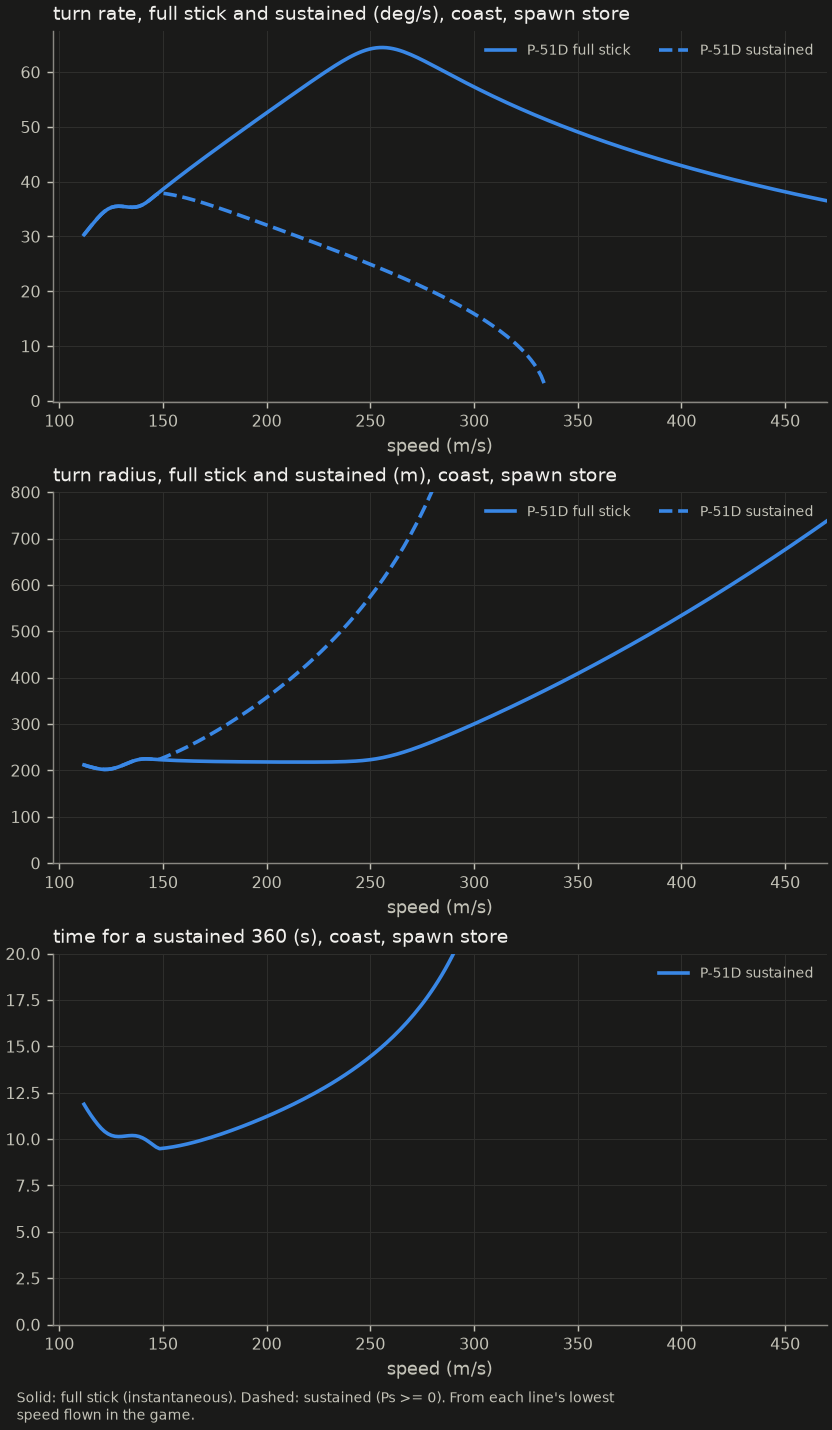
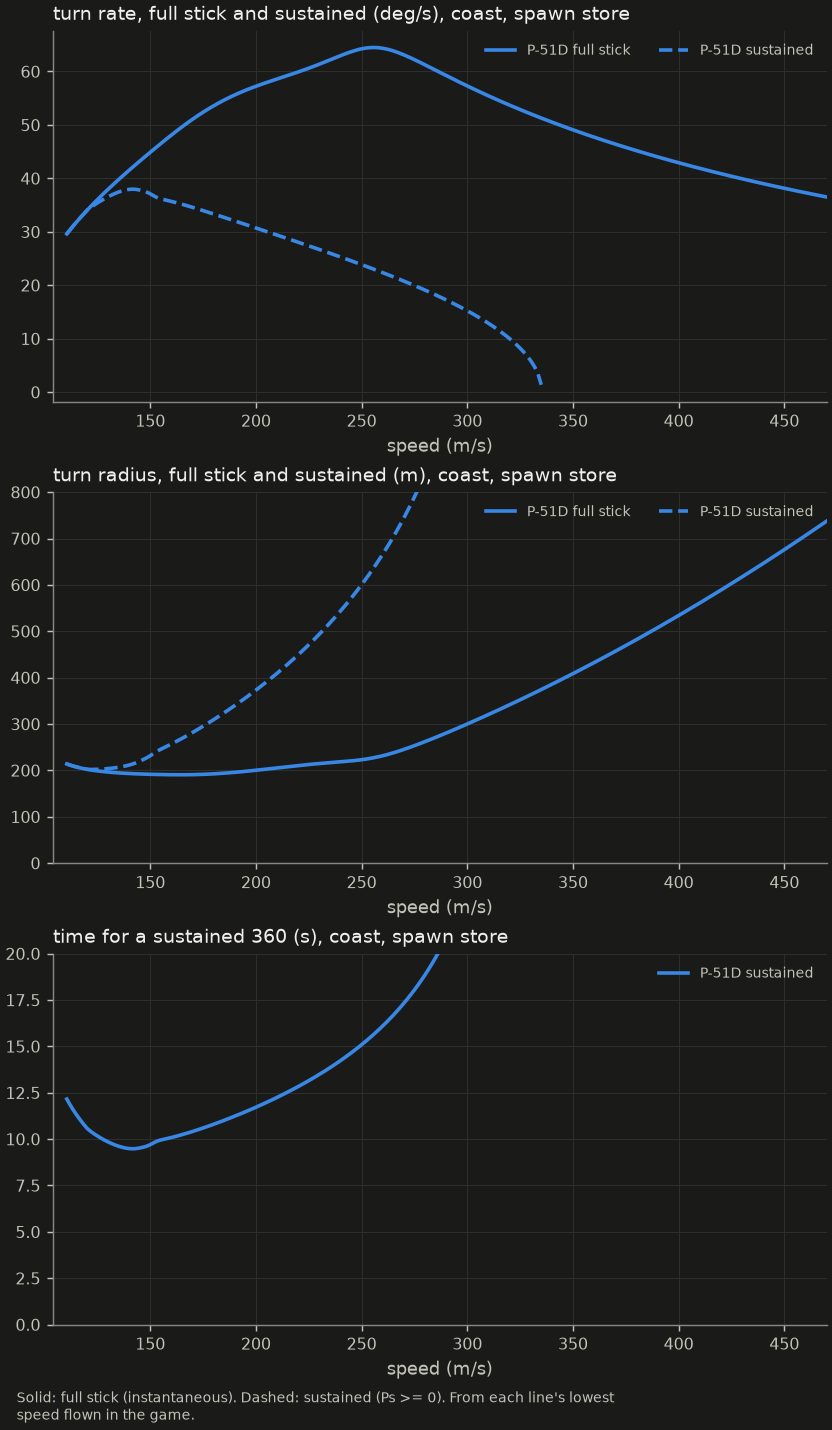
Charts on the demand-scheduled flaps: re-measured limits and flown points, test without stored numbers, flap sliders
- test_the_p51d_lines_start_where_the_game_flies_them asserts against the measurement it
  makes: each line between stall and corner speed, and flown.random_search (new: random
  control sequences, the cross-check) flies no line more than 3 m/s below it.
- design.INFO: flap_blowback_ratio replaces the removed flap_full/clear_speed_ratio.
- P-51D, game m/s: full 109.9, sustained 105.8, fine 104.0, dive 132.0, climb 109.8;
  flown points within 1.3% of the quasi-steady ones. NOTES and p51d-model updated;
  the six doghouse PNGs re-rendered (shelf gone).

diff --git a/lean/tool/flown.py b/lean/tool/flown.py
@@ -135,6 +135,66 @@ def achievable_speeds(tolerance: float = TOLERANCE) -> dict[str, float]:
     return {name: float(v) for name, v in zip(names, lowest)}
 
 
+def random_search(
+    ships: int = 1024, seconds: float = 40.0, seed: int = 0, tolerance: float = TOLERANCE
+) -> dict[str, float]:
+    """The cross-check of achievable_speeds: from the spawn state, random sequences of the 12
+    (stick, power) pairs held 0.2 to 12 s each (40% of segments a climb, the bleed); per
+    condition the lowest speed at which it is flown by the same criterion. Never meaningfully
+    below achievable_speeds if that search is complete (lean/tool/NOTES.md)."""
+    generator = torch.Generator().manual_seed(seed)
+    pairs = torch.tensor(
+        [
+            (stick, power)
+            for stick in (STRAIGHT, FINE, SUSTAINED, FULL)
+            for power in (COAST, DIVE, CLIMB)
+        ]
+    )
+    climbs = torch.nonzero(pairs[:, 1] == CLIMB)[:, 0]
+
+    def draw(k):
+        any_pair = torch.randint(len(pairs), (k,), generator=generator)
+        climb = climbs[torch.randint(len(climbs), (k,), generator=generator)]
+        return torch.where(torch.rand(k, generator=generator) < 0.4, climb, any_pair)
+
+    def duration(k):
+        return 0.2 + 11.8 * torch.rand(k, generator=generator)
+
+    config, constants, p = _ships(ships)
+    h = config.tick_length
+    max_energy = float(p.max_energy[0])
+    band = config.store_edge_band
+    s = _fresh(ships, card.SPAWN_SPEED, float(p.spawn_energy[0]))
+    chosen, left = draw(ships), duration(ships)
+    lowest = {name: math.inf for name in CONDITIONS}
+    fields = torch.zeros(ships, 5, 0)
+    with torch.no_grad():
+        for _ in range(round(seconds / h)):
+            control = pairs[chosen]
+            before = _direction(s)
+            s = core.flight_tick(constants, fields, h, s, control[:, :1], control[:, 1:])
+            measured = _turn_rate(before, s, h)
+            speed, energy = s.speed[:, 0], s.energy[:, 0]
+            store = energy / max_energy
+            level = p.stick_table.gather(1, control[:, :1])[:, 0].abs()
+            for name, (stick, power) in CONDITIONS.items():
+                mask = (control[:, 0] == stick) & (control[:, 1] == power)
+                if power != COAST:
+                    mask &= (store > band) & (store < 1.0 - band)
+                if not mask.any():
+                    continue
+                quasi = core.steady_rates(p, speed, level, power, energy)[0]
+                mask &= (measured - quasi).abs().le(tolerance * quasi.abs() + math.radians(0.2))
+                if mask.any():
+                    lowest[name] = min(lowest[name], float(speed[mask].min()))
+            left -= h
+            change = left <= 0.0
+            if change.any():
+                k = int(change.sum())
+                chosen[change], left[change] = draw(k), duration(k)
+    return lowest
+
+
 def _holding_stick(p, speed: float, energy: float) -> float:
     """The stick (0 to 1) whose quasi-steady turn holds energy (Ps = 0) at `speed`, coasting; 1 if
     full stick gains."""

diff --git a/lean/tool/tests/test_tool.py b/lean/tool/tests/test_tool.py
@@ -225,14 +225,21 @@ def p51d_flown():
 
 
 def test_the_p51d_lines_start_where_the_game_flies_them(p51d_flown):
-    """The lowest speeds the game flies each line (flown.achievable_speeds, game m/s at 2x),
-    above the stall speed; recorded in lean/tool/NOTES.md."""
-    lowest = p51d_flown[0]
-    for name, speed in dict(
-        full=110.7, sustained=108.6, fine=97.0, dive=132.0, climb=110.5
-    ).items():
-        assert lowest[name] == pytest.approx(speed, abs=1.5), name
-    assert min(lowest.values()) > tuning.performance(tuning.row_of("p51d"))["stall_speed"]
+    """The lowest speeds the game flies each line (flown.achievable_speeds, measured here on the
+    card as it stands, no stored numbers): every line is flown somewhere between the stall speed
+    and the corner speed, and an independent random search of control sequences
+    (flown.random_search) flies no line more than 3 m/s below its measured start, so the
+    search the charts use finds the lowest states."""
+    from lean.tool import flown
+
+    lowest, key, _ = p51d_flown
+    stall = tuning.performance(tuning.row_of("p51d"))["stall_speed"]
+    for name, speed in lowest.items():
+        assert stall < speed < key["corner_speed"], name
+    with tuning.flying(tuning.row_of("p51d")):
+        searched = flown.random_search(ships=1024, seconds=40.0, seed=1)
+    for name, speed in searched.items():
+        assert speed >= lowest[name] - 3.0, (name, speed, lowest[name])
 
 
 def test_the_flown_points_agree_with_the_quasi_steady_ones(p51d_flown):

diff --git a/lean/tool/design.py b/lean/tool/design.py
@@ -98,8 +98,7 @@ INFO = {
     "fine_stick": ("fine stick", "of full", "Stick and nose", 0.02, 1.0, False),
     "sustained_stick": ("sustained stick", "of full", "Stick and nose", 0.05, 1.0, False),
     "flap_lift": ("extra lift", "of clean", "Flaps", 0.0, 0.5, False),
-    "flap_full_speed_ratio": ("full below", "x stall speed", "Flaps", 1.0, 2.0, False),
-    "flap_clear_speed_ratio": ("clear above", "x stall speed", "Flaps", 1.05, 3.0, False),
+    "flap_blowback_ratio": ("blown back at", "x clean corner speed", "Flaps", 0.3, 2.0, False),
     "flap_drag_scale": ("drag of the extra lift", "", "Flaps", 0.0, 3.0, True),
     "hit_damage": ("hit damage", "", "Guns", 0.3, 3.0, True),
     "explosive_share": ("explosive share", "", "Guns", 0.0, 1.0, False),

diff --git a/lean/tool/NOTES.md b/lean/tool/NOTES.md
@@ -49,19 +49,21 @@ server draws with matplotlib (author 2026-11-24: matplotlib is the one charting 
   edge bands. The lowest states come from a climb (it fills the store and slows the ship to
   near its stall speed); then the nose must settle while the thrust accelerates the ship, so
   the large stick levels start higher. A random search (8192 ships, 60 s of random 0.2-12 s
-  segments, two seeds) found the same limits to 2 m/s (sustained 106.4 against 108.6).
-  P-51D, game m/s at 2x (real: half): full stick 110.7, sustained stick 108.6, fine stick 97.0,
-  dive 132.0 (the store must be below 95%, which needs less total energy), climb 110.5; the
+  segments) found the same limits to 1.6 m/s (`flown.random_search`; the test runs a smaller one
+  against the measurement it makes, so no stored numbers go stale).
+  P-51D on the demand-scheduled flaps (2026-11-24), game m/s at 2x (real: half): full stick
+  109.9, sustained stick 105.8, fine stick 104.0, dive 132.0 (the store must be below 95%,
+  which needs less total energy), climb 109.8; the
   stall speed is 90.4. The Ps shading stops above the largest stick flown at each speed.
 - **Flown checks.** `flown.critical_points` flies the corner (full stick from above the corner
   speed, the peak once the nose has settled), the best sustained turn (held by the stick that
   holds energy there, with a feedback on the speed) and the tightest sustained turn. The
-  P-51D's tightest sustained turn lies where full stick gains energy (Ps > 0): coasting, the
-  speed cannot be held there (full stick accelerates the ship to its settled 148 m/s), so it
-  is flown as a pass (the smallest radius passed through). P-51D, game units: corner 256.0 m/s
-  64.5 deg/s quasi-steady, flown 252.5 m/s 63.8 deg/s; best sustained 148.4 m/s 37.92 deg/s,
-  flown 148.4 m/s 37.97 deg/s; tightest sustained 121.9 m/s 202.0 m, flown 123.1 m/s 203.2 m
-  (test: corner and tightest within 2%, best within 1%; the best turn held at a fixed stick settles at 148.5 m/s). Drawn as small hollow markers beside
+  P-51D's tightest sustained turn lies where full stick gains energy (Ps > 0), just below the
+  speed full stick settles at (120.6 m/s): coasting, the speed cannot be held there, so it is
+  flown as a pass (the smallest radius passed through). P-51D, game units: corner 255.3 m/s 64.5 deg/s quasi-steady, flown 252.1 m/s 63.7 deg/s; best sustained 141.4 m/s
+  37.98 deg/s, flown 141.4 m/s 37.98 deg/s (held; a fixed stick settles at 141.5 m/s);
+  tightest sustained 120.3 m/s 202.1 m, flown 121.8 m/s 200.8 m (test: corner and tightest
+  within 2%, best within 1%). Drawn as small hollow markers beside
   the quasi-steady points, with the flown numbers in the labels.
 - **No flying in the slider path.** The flown checks take about 6 s (achievable speeds 5 s,
   points 1 s). The server flies the preset's once at start (in the background) and caches

diff --git a/docs/rewrite/p51d-model.md b/docs/rewrite/p51d-model.md
@@ -237,8 +237,8 @@ The P-51D's doghouse, its card row (game terms on, flaps), drawn from `tuning.en
 units speeds, turn rates and Ps are halved; radii and loads are unchanged. Marks: the corner
 (circle), the best sustained turn (square), the tightest sustained turn (triangle), each with a
 small hollow marker where the game flies it (`lean.tool.flown`). Each line starts at the
-lowest speed the game flies it (game m/s: full stick 110.7, sustained 108.6, fine 97.0, dive
-132.0, climb 110.5; the stall speed is 90.4), nothing below; how they were found:
+lowest speed the game flies it (game m/s: full stick 109.9, sustained 105.8, fine 104.0, dive
+132.0, climb 109.8; the stall speed is 90.4), nothing below; how they were found:
 `lean/tool/NOTES.md`.
 
 | Real units (1x) | Game units (2x) |
